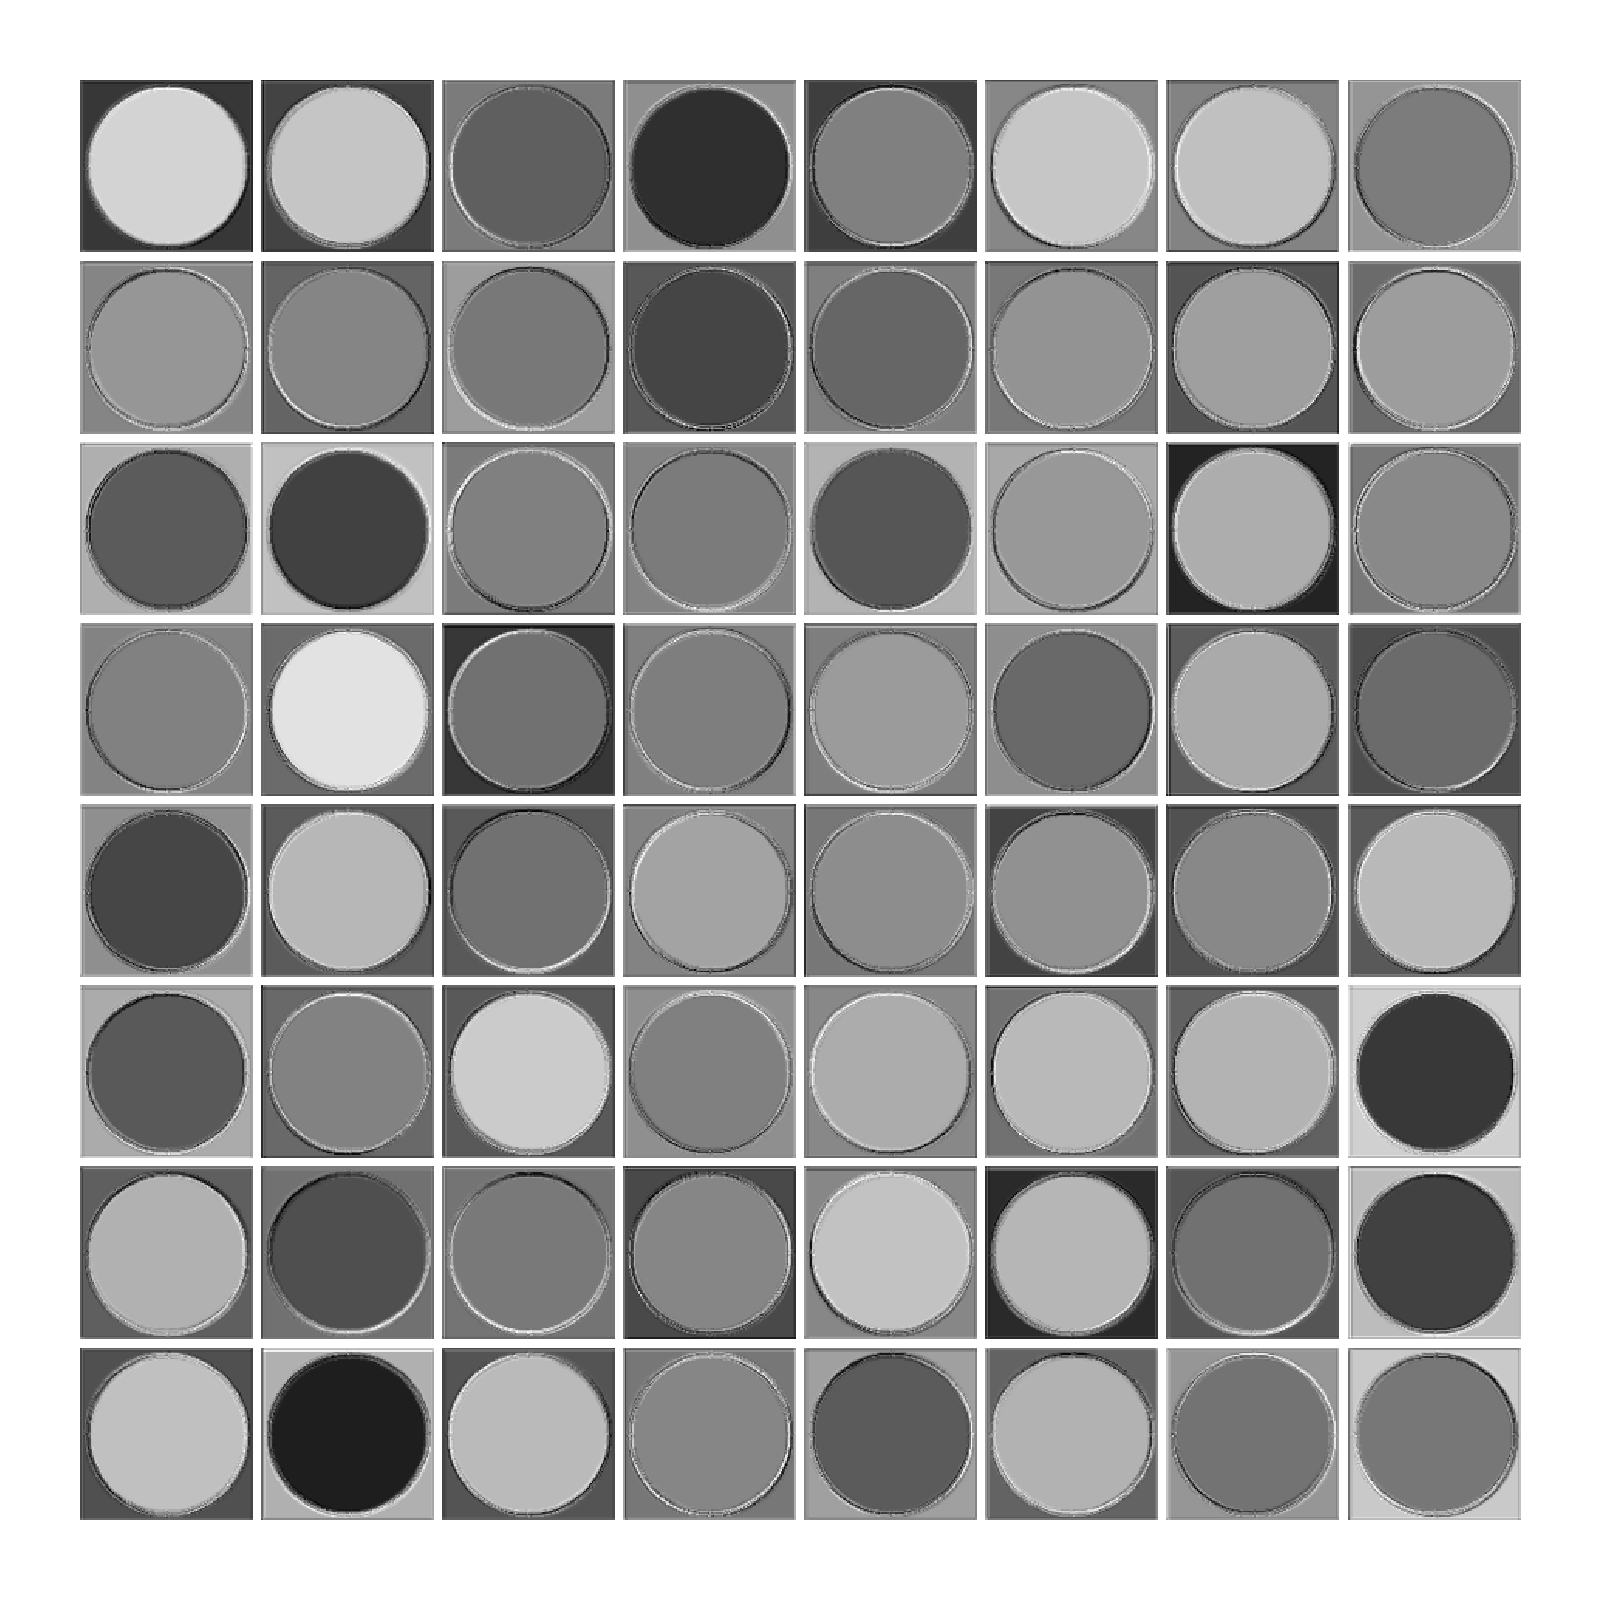
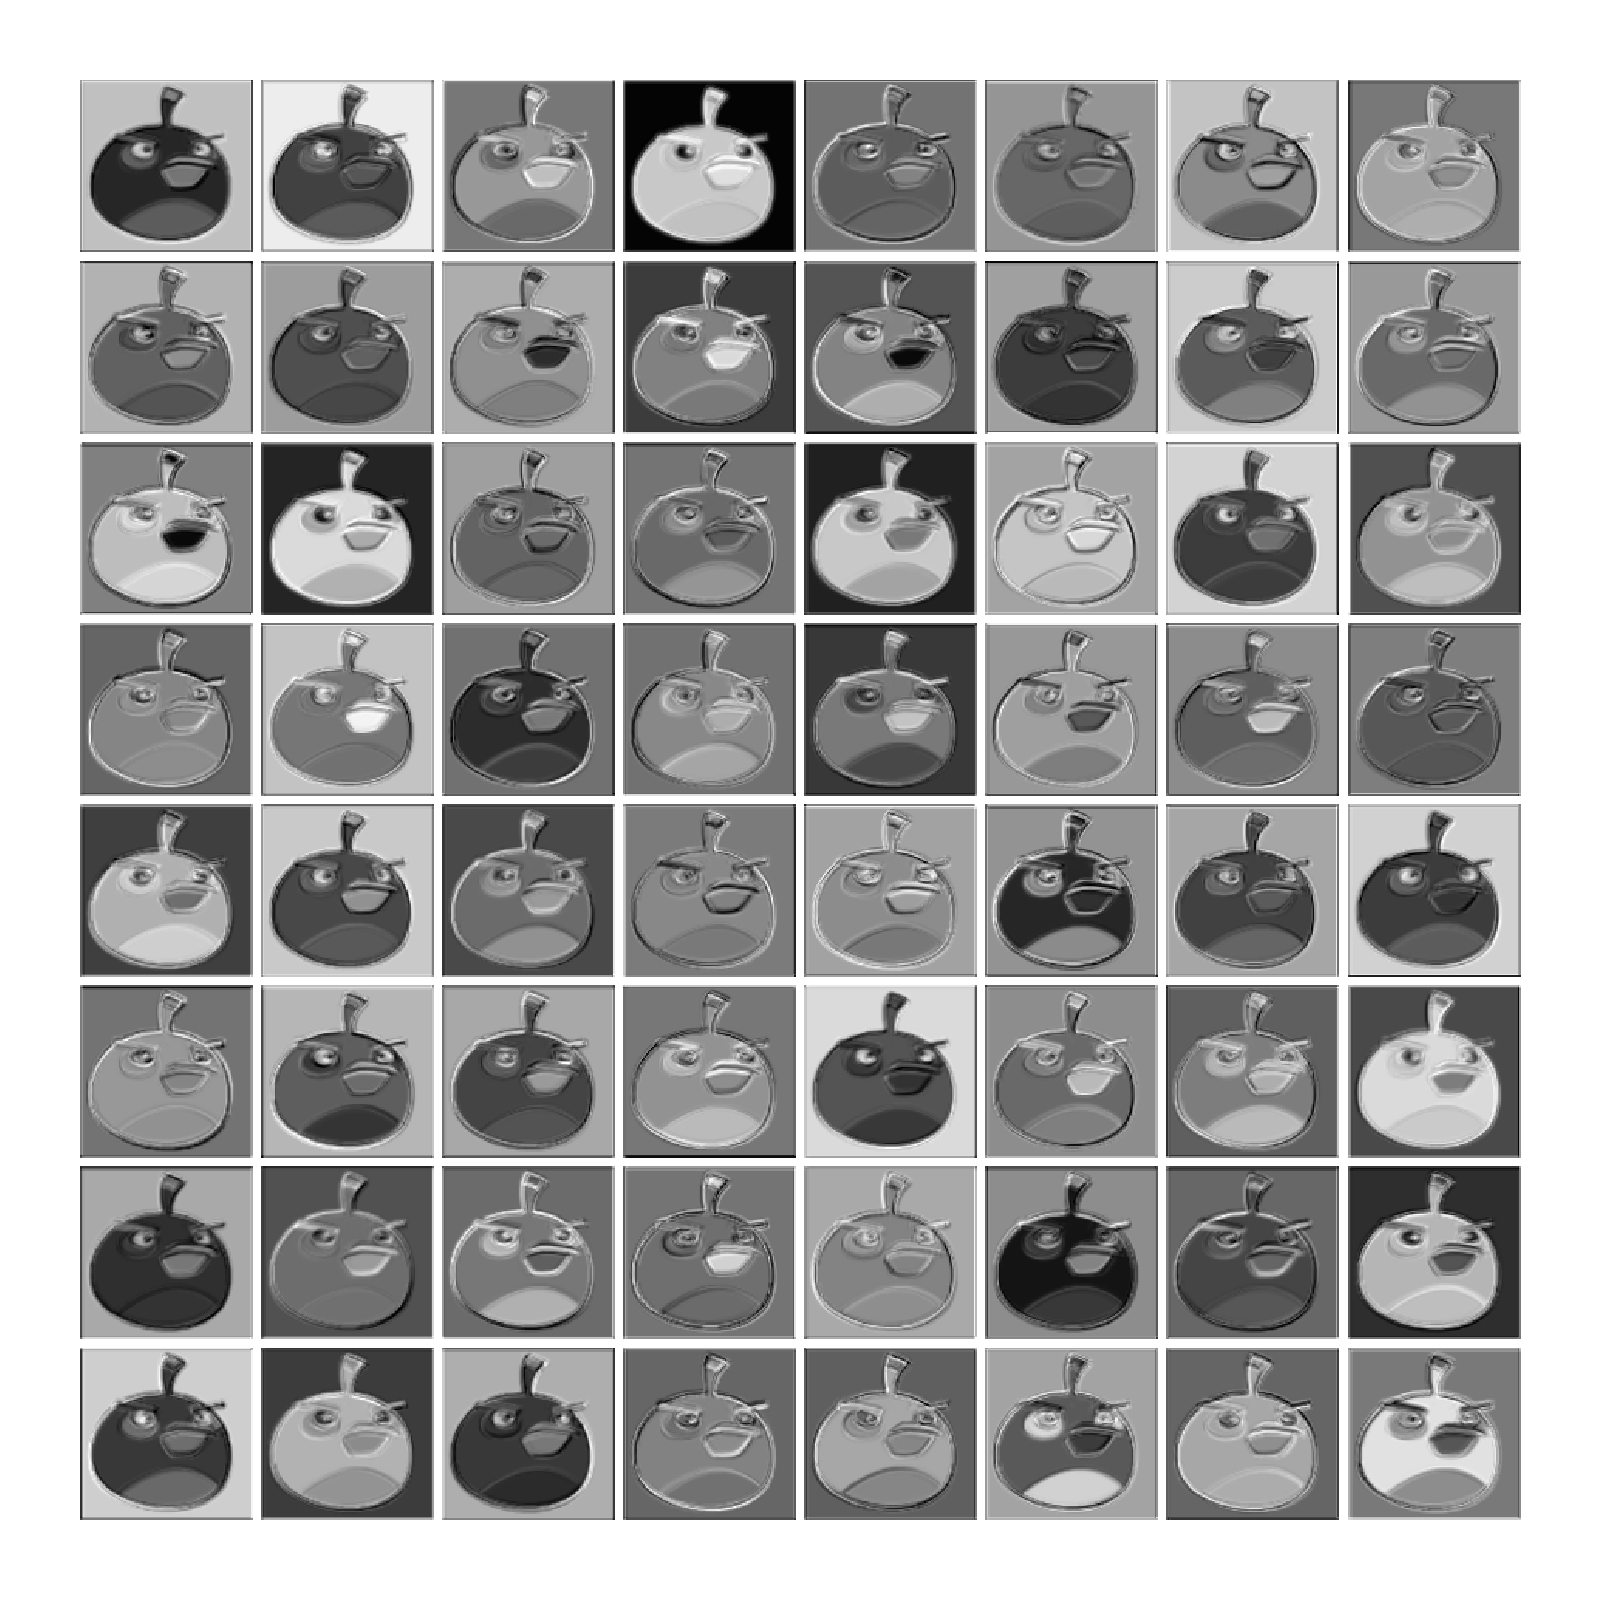
feature maps

diff --git a/feature_extract.py b/feature_extract.py
@@ -103,7 +103,7 @@ model=ft_net().cuda()
 # model_dict.update(pretrained_dict)
 # net.load_state_dict(model_dict)
 model.eval()
-img=cv2.imread('dataset/rawdata/shapes/circ0.png')
+img=cv2.imread('dataset/characters/train/BLACKBIRD/BLACKBIRD1.png')
 img=cv2.resize(img,(224,224));
 img=cv2.cvtColor(img,cv2.COLOR_BGR2RGB)
 transform = transforms.Compose(
